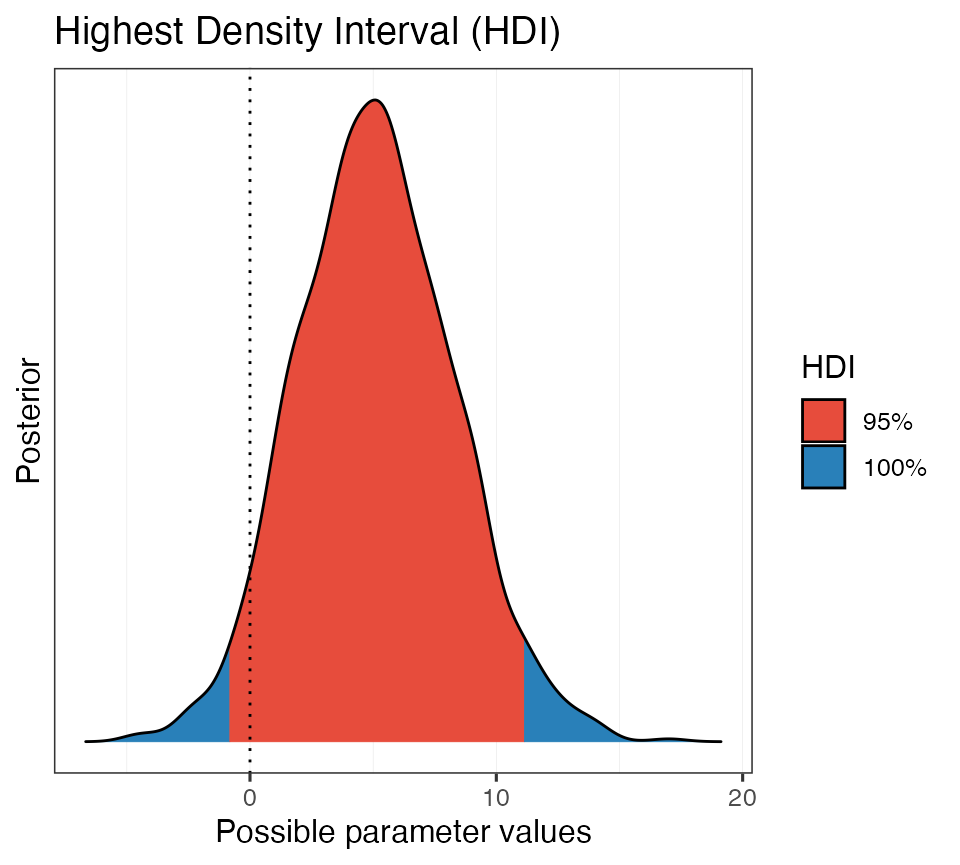
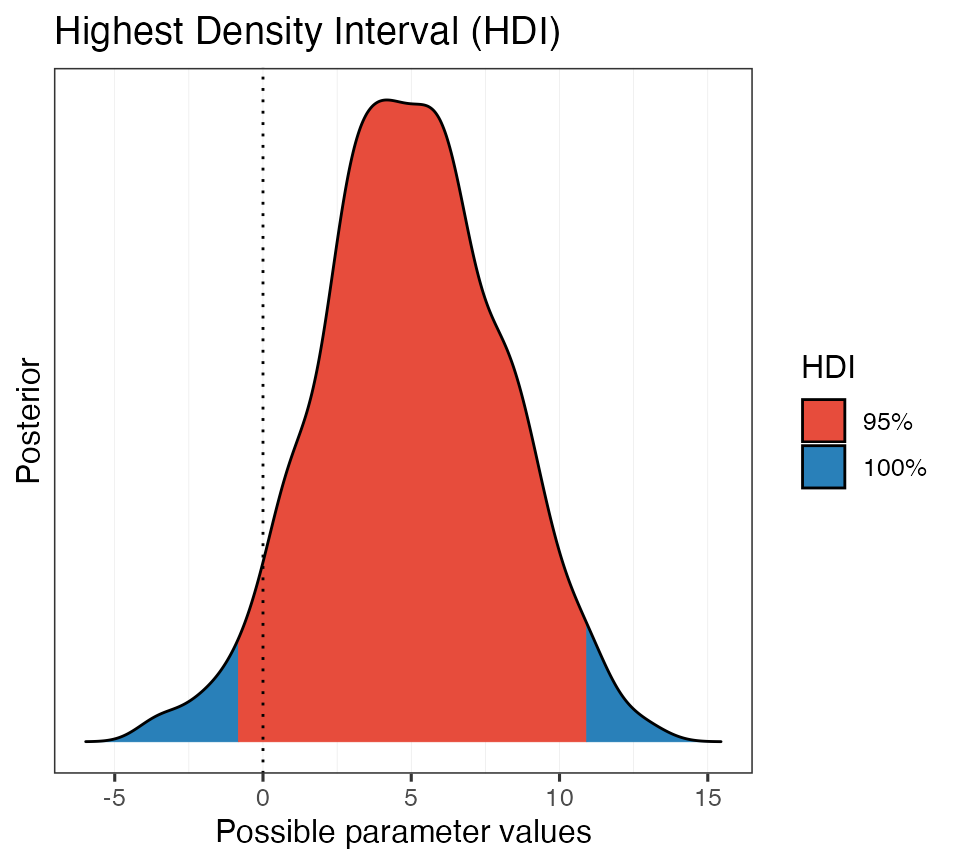
Built site for learnB4SS: 1.0.2@0f8dc15

diff --git a/articles/ex_03.html b/articles/ex_03.html
@@ -39,7 +39,7 @@
       </button>
       <span class="navbar-brand">
         <a class="navbar-link" href="../index.html">learnB4SS</a>
-        <span class="version label label-default" data-toggle="tooltip" data-placement="bottom" title="Released version">1.0.0</span>
+        <span class="version label label-default" data-toggle="tooltip" data-placement="bottom" title="Released version">1.0.2</span>
       </span>
     </div>
 
@@ -138,6 +138,9 @@
 <li>
   <a href="../articles/faqs.html">FAQs</a>
 </li>
+<li>
+  <a href="../news/index.html">Changelog</a>
+</li>
       </ul>
 <ul class="nav navbar-nav navbar-right">
 <li>
@@ -172,11 +175,13 @@
 <div id="load-data" class="section level1">
 <h1 class="hasAnchor">
 <a href="#load-data" class="anchor"></a>Load data</h1>
-<p>Let’s load the data we are going to use.</p>
+<p>Let’s load the packages and data we are going to use.</p>
 <div class="sourceCode" id="cb1"><pre class="downlit sourceCode r">
 <code class="sourceCode R"><span class="co"># Packages</span>
 <span class="kw"><a href="https://rdrr.io/r/base/library.html">library</a></span><span class="op">(</span><span class="va"><a href="https://github.com/paul-buerkner/brms">brms</a></span><span class="op">)</span>
 <span class="kw"><a href="https://rdrr.io/r/base/library.html">library</a></span><span class="op">(</span><span class="va"><a href="https://github.com/learnB4SS/learnB4SS">learnB4SS</a></span><span class="op">)</span>
+<span class="kw"><a href="https://rdrr.io/r/base/library.html">library</a></span><span class="op">(</span><span class="va"><a href="https://github.com/twolodzko/extraDistr">extraDistr</a></span><span class="op">)</span>
+<span class="kw"><a href="https://rdrr.io/r/base/library.html">library</a></span><span class="op">(</span><span class="va"><a href="https://tidyverse.tidyverse.org">tidyverse</a></span><span class="op">)</span>
 
 <span class="co"># Data</span>
 <span class="fu"><a href="https://rdrr.io/r/utils/data.html">data</a></span><span class="op">(</span><span class="st">"polite"</span><span class="op">)</span></code></pre></div>
@@ -256,15 +261,30 @@
 <li>
 <code>sigma</code>: a Half-Cauchy distribution with mean = 0 and sd = 1.</li>
 </ul>
-<p>Go ahead and fill in the following code snippet with the right parameters and arguments:</p>
+<p>The Half Cauchy distribution is something we haven’t seen yet. This distribution is helpful for estimating measures like standard deviations. It’s “half” because only the positive values are taken into consideration, since the standard deviation can only ever be positive.</p>
+<p>This is how a Half Cauchy distribution with mean 0 and standard deviation 1 looks like:</p>
 <div class="sourceCode" id="cb5"><pre class="downlit sourceCode r">
+<code class="sourceCode R"><span class="va">x</span> <span class="op">&lt;-</span> <span class="fu"><a href="https://rdrr.io/r/base/seq.html">seq</a></span><span class="op">(</span><span class="fl">0</span>, <span class="fl">10</span>, by <span class="op">=</span> <span class="fl">0.1</span><span class="op">)</span>
+<span class="va">y</span> <span class="op">&lt;-</span> <span class="fu"><a href="https://rdrr.io/pkg/extraDistr/man/HalfCauchy.html">dhcauchy</a></span><span class="op">(</span><span class="va">x</span>, sigma <span class="op">=</span> <span class="fl">1</span><span class="op">)</span>
+<span class="fu">ggplot</span><span class="op">(</span><span class="op">)</span> <span class="op">+</span>
+  <span class="fu">aes</span><span class="op">(</span><span class="va">x</span>, <span class="va">y</span><span class="op">)</span> <span class="op">+</span>
+  <span class="fu">geom_line</span><span class="op">(</span>size <span class="op">=</span> <span class="fl">2</span><span class="op">)</span> <span class="op">+</span>
+  <span class="fu">labs</span><span class="op">(</span>
+    x <span class="op">=</span> <span class="st">"Articulation rate (syl/s)"</span>, y <span class="op">=</span> <span class="st">"Density"</span>,
+    title <span class="op">=</span> <span class="st">"Half Cauchy distribution"</span>,
+    subtitle <span class="op">=</span> <span class="fu"><a href="https://rdrr.io/r/base/expression.html">expression</a></span><span class="op">(</span><span class="fu"><a href="https://rdrr.io/r/base/paste.html">paste</a></span><span class="op">(</span><span class="va">mu</span>, <span class="st">"=0"</span>, <span class="st">", "</span>, <span class="va">sigma</span>, <span class="st">"=1"</span><span class="op">)</span><span class="op">)</span>
+  <span class="op">)</span></code></pre></div>
+<p><img src="ex_03_files/figure-html/half-cauchy-1.png" width="700"></p>
+<p>As you can see, the probability of getting bigger values drops very quickly while moving away from 0. This ensures that the prior for the standard deviation has a “regularising” effect (we will talk about regularising priors tomorrow), which helps brms to estimate the standard deviation.</p>
+<p>Now go ahead and fill in the following code snippet with the right parameters and arguments:</p>
+<div class="sourceCode" id="cb6"><pre class="downlit sourceCode r">
 <code class="sourceCode R"><span class="va">my_priors</span> <span class="op">&lt;-</span> <span class="fu"><a href="https://rdrr.io/r/base/c.html">c</a></span><span class="op">(</span>
   <span class="fu"><a href="https://rdrr.io/pkg/brms/man/set_prior.html">prior</a></span><span class="op">(</span><span class="fu">normal</span><span class="op">(</span><span class="va">...</span>, <span class="va">...</span><span class="op">)</span>, class <span class="op">=</span> <span class="va">Intercept</span><span class="op">)</span>,
   <span class="fu"><a href="https://rdrr.io/pkg/brms/man/set_prior.html">prior</a></span><span class="op">(</span><span class="fu">normal</span><span class="op">(</span><span class="va">...</span>, <span class="va">...</span><span class="op">)</span>, class <span class="op">=</span> <span class="va">b</span>, coef <span class="op">=</span> <span class="va">...</span><span class="op">)</span>,
   <span class="fu"><a href="https://rdrr.io/pkg/brms/man/set_prior.html">prior</a></span><span class="op">(</span><span class="fu">cauchy</span><span class="op">(</span><span class="fl">0</span>, <span class="va">...</span><span class="op">)</span>, class <span class="op">=</span> <span class="va">...</span><span class="op">)</span>
 <span class="op">)</span></code></pre></div>
 <p>And now let’s fit the model using our priors!</p>
-<div class="sourceCode" id="cb6"><pre class="downlit sourceCode r">
+<div class="sourceCode" id="cb7"><pre class="downlit sourceCode r">
 <code class="sourceCode R"><span class="va">b_mod_01</span> <span class="op">&lt;-</span> <span class="fu"><a href="https://rdrr.io/pkg/brms/man/brm.html">brm</a></span><span class="op">(</span>
   <span class="va">articulation_rate</span> <span class="op">~</span> <span class="va">attitude</span>,
   data <span class="op">=</span> <span class="va">polite</span>,

diff --git a/articles/ex_06.html b/articles/ex_06.html
@@ -39,7 +39,7 @@
       </button>
       <span class="navbar-brand">
         <a class="navbar-link" href="../index.html">learnB4SS</a>
-        <span class="version label label-default" data-toggle="tooltip" data-placement="bottom" title="Released version">1.0.0</span>
+        <span class="version label label-default" data-toggle="tooltip" data-placement="bottom" title="Released version">1.0.2</span>
       </span>
     </div>
 
@@ -138,6 +138,9 @@
 <li>
   <a href="../articles/faqs.html">FAQs</a>
 </li>
+<li>
+  <a href="../news/index.html">Changelog</a>
+</li>
       </ul>
 <ul class="nav navbar-nav navbar-right">
 <li>
@@ -199,14 +202,14 @@
 <span class="co"># Use quantile function on posterior</span>
 <span class="fu"><a href="https://rdrr.io/r/stats/quantile.html">quantile</a></span><span class="op">(</span><span class="va">posterior</span>, <span class="fu"><a href="https://rdrr.io/r/base/c.html">c</a></span><span class="op">(</span><span class="fl">0.025</span>, <span class="fl">0.975</span><span class="op">)</span><span class="op">)</span>
 <span class="co">#&gt;       2.5%      97.5% </span>
-<span class="co">#&gt; -0.7089668 11.4159403</span></code></pre></div>
-<p>We can see that the 95% CI for our posterior is -0.7089668, 11.4159403.</p>
+<span class="co">#&gt; -0.9505154 10.7989781</span></code></pre></div>
+<p>We can see that the 95% CI for our posterior is -0.9505154, 10.7989781.</p>
 <p>We can simplify the process even more using the <code>hdi</code> function from the <code>bayestestR</code> package. This has some other benefits that we will see in a bit.</p>
 <div class="sourceCode" id="cb3"><pre class="downlit sourceCode r">
 <code class="sourceCode R"><span class="co"># bayesTestR::hdi</span>
 <span class="va">hdi_ex1</span> <span class="op">&lt;-</span> <span class="fu"><a href="https://easystats.github.io/bayestestR/reference/hdi.html">hdi</a></span><span class="op">(</span><span class="va">posterior</span><span class="op">)</span>
 <span class="va">hdi_ex1</span>
-<span class="co">#&gt; 95% HDI: [-0.83, 11.10]</span></code></pre></div>
+<span class="co">#&gt; 95% HDI: [-0.85, 10.88]</span></code></pre></div>
 <p>Notice that the ranges are slightly different. This is because the HDI, highest density interval, is a special type of credible interval. There are several methods for calculating a CI, but we won’t go into that now. For our purposes we will stick with the HDI.</p>
 <p>One advantage to using the <code>hdi</code> function from the <code>bayestestR</code> package is that it also has print methods. This means we can wrap the <code><a href="https://rdrr.io/r/graphics/plot.default.html">plot()</a></code> function around our <code>hdi</code> object, like this:</p>
 <div class="sourceCode" id="cb4"><pre class="downlit sourceCode r">
@@ -294,7 +297,7 @@ In other words, positive values are still a possibility, given the data, the mod
 <div class="sourceCode" id="cb13"><pre class="downlit sourceCode r">
 <code class="sourceCode R"><span class="co"># "Fake" posterior example </span>
 <span class="fu"><a href="https://easystats.github.io/bayestestR/reference/p_direction.html">p_direction</a></span><span class="op">(</span><span class="va">posterior</span><span class="op">)</span>
-<span class="co">#&gt; Probability of Direction: 0.96</span></code></pre></div>
+<span class="co">#&gt; Probability of Direction: 0.95</span></code></pre></div>
 <p>on posterior samples taken from a model object,</p>
 <div class="sourceCode" id="cb14"><pre class="downlit sourceCode r">
 <code class="sourceCode R"><span class="co"># PD of intercept-only model</span>
@@ -342,7 +345,7 @@ In other words, positive values are still a possibility, given the data, the mod
 <span class="co">#&gt; </span>
 <span class="co">#&gt; inside ROPE</span>
 <span class="co">#&gt; -----------</span>
-<span class="co">#&gt; 0.84 %</span></code></pre></div>
+<span class="co">#&gt; 0.63 %</span></code></pre></div>
 <p>We can set the range of the ROPE and the size of the HDI using the arguments <code>range</code> and <code>ci</code>, respectively.</p>
 <div class="sourceCode" id="cb19"><pre class="downlit sourceCode r">
 <code class="sourceCode R"><span class="co"># Calculate % of HDI within rope w/ specific settings</span>
@@ -351,7 +354,7 @@ In other words, positive values are still a possibility, given the data, the mod
 <span class="co">#&gt; </span>
 <span class="co">#&gt; inside ROPE</span>
 <span class="co">#&gt; -----------</span>
-<span class="co">#&gt; 0.81 %</span></code></pre></div>
+<span class="co">#&gt; 0.61 %</span></code></pre></div>
 <p>The default sets the CI to 95% and the ROPE range to ±0.1, unless the input is a Bayesian model. In that case, the function <code>rope_range</code> is used to calculate a ROPE (following Kruschke 2018, see <code><a href="https://easystats.github.io/bayestestR/reference/rope_range.html">?rope_range</a></code>).</p>
 <p><span class="math display">\[\color{black}{\frac{\mu_{1} - \mu_{2}}{\sqrt{\frac{\sigma^2_{1} + \sigma^2_{2}}{2}}}}\]</span></p>
 <div class="sourceCode" id="cb20"><pre class="downlit sourceCode r">

diff --git a/index.html b/index.html
@@ -40,7 +40,7 @@
       </button>
       <span class="navbar-brand">
         <a class="navbar-link" href="index.html">learnB4SS</a>
-        <span class="version label label-default" data-toggle="tooltip" data-placement="bottom" title="Released version">1.0.0</span>
+        <span class="version label label-default" data-toggle="tooltip" data-placement="bottom" title="Released version">1.0.2</span>
       </span>
     </div>
 
@@ -139,6 +139,9 @@
 <li>
   <a href="articles/faqs.html">FAQs</a>
 </li>
+<li>
+  <a href="news/index.html">Changelog</a>
+</li>
       </ul>
 <ul class="nav navbar-nav navbar-right">
 <li>
@@ -163,9 +166,14 @@
 <div class="page-header"><h1 class="hasAnchor">
 <a href="#learn-bayesian-analysis-for-the-speech-sciences-" class="anchor"></a>Learn Bayesian Analysis for the Speech Sciences <a href="https://learnb4ss.github.io/learnB4SS"><img src="reference/figures/logo.png" align="right" height="138"></a>
 </h1></div>
+<div id="learning-materials" class="section level3">
+<h3 class="hasAnchor">
+<a href="#learning-materials" class="anchor"></a>Learning materials</h3>
 <!-- badges: start -->
-<p><img src="https://img.shields.io/badge/version-1.0.0-FFA70B.svg"><!-- badges: end --></p>
-<p>Here you can find the learning materials for the workshop <strong>Learn Bayesian Analysis for the Speech Sciences</strong> (<a href="https://learnb4ss.github.io">learnB4SS</a>), in the form of an R package.</p>
+<p><img src="https://img.shields.io/badge/version-1.0.1-FFA70B.svg"><!-- badges: end --></p>
+<p>Here you can find the <strong>learning materials</strong> for the workshop <em>Learn Bayesian Analysis for the Speech Sciences</em> (<a href="https://learnb4ss.github.io">learnB4SS</a>), in the form of an R package.</p>
+<p>For dates and other info, see the workshop <a href="https://learnb4ss.github.io">homepage</a>.</p>
+</div>
 <div id="lets-get-started" class="section level2">
 <h2 class="hasAnchor">
 <a href="#lets-get-started" class="anchor"></a>Let’s get started!</h2>

diff --git a/news/index.html b/news/index.html
@@ -81,7 +81,7 @@
       </button>
       <span class="navbar-brand">
         <a class="navbar-link" href="../index.html">learnB4SS</a>
-        <span class="version label label-default" data-toggle="tooltip" data-placement="bottom" title="Released version">1.0.0</span>
+        <span class="version label label-default" data-toggle="tooltip" data-placement="bottom" title="Released version">1.0.2</span>
       </span>
     </div>
 
@@ -208,14 +208,36 @@
       <small>Source: <a href='https://github.com/learnB4SS/learnB4SS/blob/master/NEWS.md'><code>NEWS.md</code></a></small>
     </div>
 
-    <div id="learnb4ss-100" class="section level1">
-<h1 class="page-header" data-toc-text="1.0.0">
-<a href="#learnb4ss-100" class="anchor"></a>learnB4SS 1.0.0</h1>
+    <div id="learnb4ss-v102" class="section level1">
+<h1 class="page-header" data-toc-text="1.0.2">
+<a href="#learnb4ss-v102" class="anchor"></a>learnB4SS v1.0.2</h1>
+<div id="fixed" class="section level2">
+<h2 class="hasAnchor">
+<a href="#fixed" class="anchor"></a>Fixed</h2>
+<ul>
+<li>Add missing dependency.</li>
+</ul>
+</div>
+</div>
+    <div id="learnb4ss-v101" class="section level1">
+<h1 class="page-header" data-toc-text="1.0.1">
+<a href="#learnb4ss-v101" class="anchor"></a>learnB4SS v1.0.1</h1>
 <div id="added" class="section level2">
 <h2 class="hasAnchor">
 <a href="#added" class="anchor"></a>Added</h2>
 <ul>
-<li>First package release!</li>
+<li>✨ - Half cauchy example in <code>ex_03</code>.</li>
+</ul>
+</div>
+</div>
+    <div id="learnb4ss-v100" class="section level1">
+<h1 class="page-header" data-toc-text="1.0.0">
+<a href="#learnb4ss-v100" class="anchor"></a>learnB4SS v1.0.0</h1>
+<div id="added-1" class="section level2">
+<h2 class="hasAnchor">
+<a href="#added-1" class="anchor"></a>Added</h2>
+<ul>
+<li>🎉 - First package release!</li>
 </ul>
 </div>
 </div>

diff --git a/articles/ex_08.html b/articles/ex_08.html
@@ -39,7 +39,7 @@
       </button>
       <span class="navbar-brand">
         <a class="navbar-link" href="../index.html">learnB4SS</a>
-        <span class="version label label-default" data-toggle="tooltip" data-placement="bottom" title="Released version">1.0.0</span>
+        <span class="version label label-default" data-toggle="tooltip" data-placement="bottom" title="Released version">1.0.2</span>
       </span>
     </div>
 
@@ -137,6 +137,9 @@
 </li>
 <li>
   <a href="../articles/faqs.html">FAQs</a>
+</li>
+<li>
+  <a href="../news/index.html">Changelog</a>
 </li>
       </ul>
 <ul class="nav navbar-nav navbar-right">
@@ -525,8 +528,8 @@ One reason for this is that f0 is also bound to zero and very low values are vir
 Again, a lognormal link function is probably more appropriate.
 
 priors_ex_log <- c(
-  prior(normal(0, 3), class = Intercept),
-  prior(normal(0, 2), class = b, coef = attitudepol),
+  prior(normal(0, 6), class = Intercept),
+  prior(normal(0, 3), class = b, coef = attitudepol),
   # specify weakly informative prior for the random effects (slopes)
   prior(cauchy(0, .1), class = sd, coef = Intercept, group = subject),
   prior(cauchy(0, .1), class = sd, coef = attitudeinf, group = subject),

diff --git a/reference/open_slides.html b/reference/open_slides.html
@@ -83,7 +83,7 @@ session will open in your browser (an internet connection is required)." />
       </button>
       <span class="navbar-brand">
         <a class="navbar-link" href="../index.html">learnB4SS</a>
-        <span class="version label label-default" data-toggle="tooltip" data-placement="bottom" title="Released version">1.0.0</span>
+        <span class="version label label-default" data-toggle="tooltip" data-placement="bottom" title="Released version">1.0.2</span>
       </span>
     </div>
 
@@ -181,6 +181,9 @@ session will open in your browser (an internet connection is required)." />
 </li>
 <li>
   <a href="../articles/faqs.html">FAQs</a>
+</li>
+<li>
+  <a href="../news/index.html">Changelog</a>
 </li>
       </ul>
       <ul class="nav navbar-nav navbar-right">

diff --git a/reference/open_exercise.html b/reference/open_exercise.html
@@ -83,7 +83,7 @@ file will be copied in the working directory and opened in the editor." />
       </button>
       <span class="navbar-brand">
         <a class="navbar-link" href="../index.html">learnB4SS</a>
-        <span class="version label label-default" data-toggle="tooltip" data-placement="bottom" title="Released version">1.0.0</span>
+        <span class="version label label-default" data-toggle="tooltip" data-placement="bottom" title="Released version">1.0.2</span>
       </span>
     </div>
 
@@ -181,6 +181,9 @@ file will be copied in the working directory and opened in the editor." />
 </li>
 <li>
   <a href="../articles/faqs.html">FAQs</a>
+</li>
+<li>
+  <a href="../news/index.html">Changelog</a>
 </li>
       </ul>
       <ul class="nav navbar-nav navbar-right">

diff --git a/reference/learnB4SS-package.html b/reference/learnB4SS-package.html
@@ -84,7 +84,7 @@ It provides the learning materials from the workshop 'Learn Bayesian
       </button>
       <span class="navbar-brand">
         <a class="navbar-link" href="../index.html">learnB4SS</a>
-        <span class="version label label-default" data-toggle="tooltip" data-placement="bottom" title="Released version">1.0.0</span>
+        <span class="version label label-default" data-toggle="tooltip" data-placement="bottom" title="Released version">1.0.2</span>
       </span>
     </div>
 
@@ -182,6 +182,9 @@ It provides the learning materials from the workshop 'Learn Bayesian
 </li>
 <li>
   <a href="../articles/faqs.html">FAQs</a>
+</li>
+<li>
+  <a href="../news/index.html">Changelog</a>
 </li>
       </ul>
       <ul class="nav navbar-nav navbar-right">

diff --git a/404.html b/404.html
@@ -81,7 +81,7 @@
       </button>
       <span class="navbar-brand">
         <a class="navbar-link" href="https://learnb4ss.github.io/learnB4SS//index.html">learnB4SS</a>
-        <span class="version label label-default" data-toggle="tooltip" data-placement="bottom" title="Released version">1.0.0</span>
+        <span class="version label label-default" data-toggle="tooltip" data-placement="bottom" title="Released version">1.0.2</span>
       </span>
     </div>
 
@@ -179,6 +179,9 @@
 </li>
 <li>
   <a href="articles/faqs.html">FAQs</a>
+</li>
+<li>
+  <a href="news/index.html">Changelog</a>
 </li>
       </ul>
       <ul class="nav navbar-nav navbar-right">

diff --git a/articles/index.html b/articles/index.html
@@ -81,7 +81,7 @@
       </button>
       <span class="navbar-brand">
         <a class="navbar-link" href="../index.html">learnB4SS</a>
-        <span class="version label label-default" data-toggle="tooltip" data-placement="bottom" title="Released version">1.0.0</span>
+        <span class="version label label-default" data-toggle="tooltip" data-placement="bottom" title="Released version">1.0.2</span>
       </span>
     </div>
 
@@ -179,6 +179,9 @@
 </li>
 <li>
   <a href="../articles/faqs.html">FAQs</a>
+</li>
+<li>
+  <a href="../news/index.html">Changelog</a>
 </li>
       </ul>
       <ul class="nav navbar-nav navbar-right">

diff --git a/reference/index.html b/reference/index.html
@@ -81,7 +81,7 @@
       </button>
       <span class="navbar-brand">
         <a class="navbar-link" href="../index.html">learnB4SS</a>
-        <span class="version label label-default" data-toggle="tooltip" data-placement="bottom" title="Released version">1.0.0</span>
+        <span class="version label label-default" data-toggle="tooltip" data-placement="bottom" title="Released version">1.0.2</span>
       </span>
     </div>
 
@@ -179,6 +179,9 @@
 </li>
 <li>
   <a href="../articles/faqs.html">FAQs</a>
+</li>
+<li>
+  <a href="../news/index.html">Changelog</a>
 </li>
       </ul>
       <ul class="nav navbar-nav navbar-right">

diff --git a/reference/polite.html b/reference/polite.html
@@ -82,7 +82,7 @@
       </button>
       <span class="navbar-brand">
         <a class="navbar-link" href="../index.html">learnB4SS</a>
-        <span class="version label label-default" data-toggle="tooltip" data-placement="bottom" title="Released version">1.0.0</span>
+        <span class="version label label-default" data-toggle="tooltip" data-placement="bottom" title="Released version">1.0.2</span>
       </span>
     </div>
 
@@ -180,6 +180,9 @@
 </li>
 <li>
   <a href="../articles/faqs.html">FAQs</a>
+</li>
+<li>
+  <a href="../news/index.html">Changelog</a>
 </li>
       </ul>
       <ul class="nav navbar-nav navbar-right">
